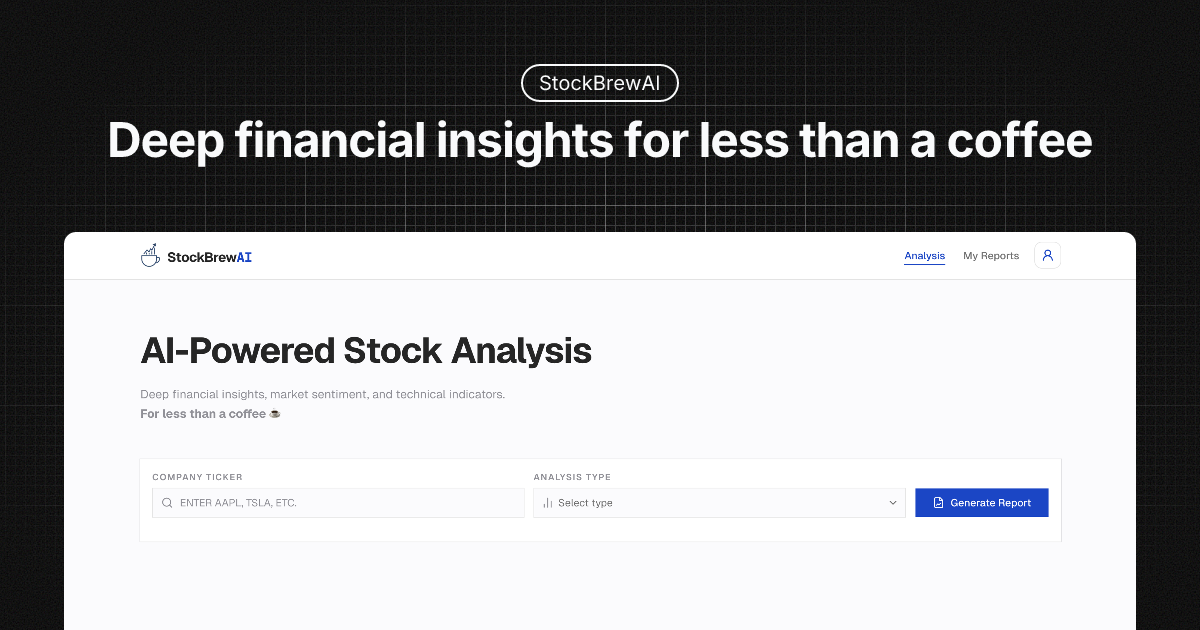
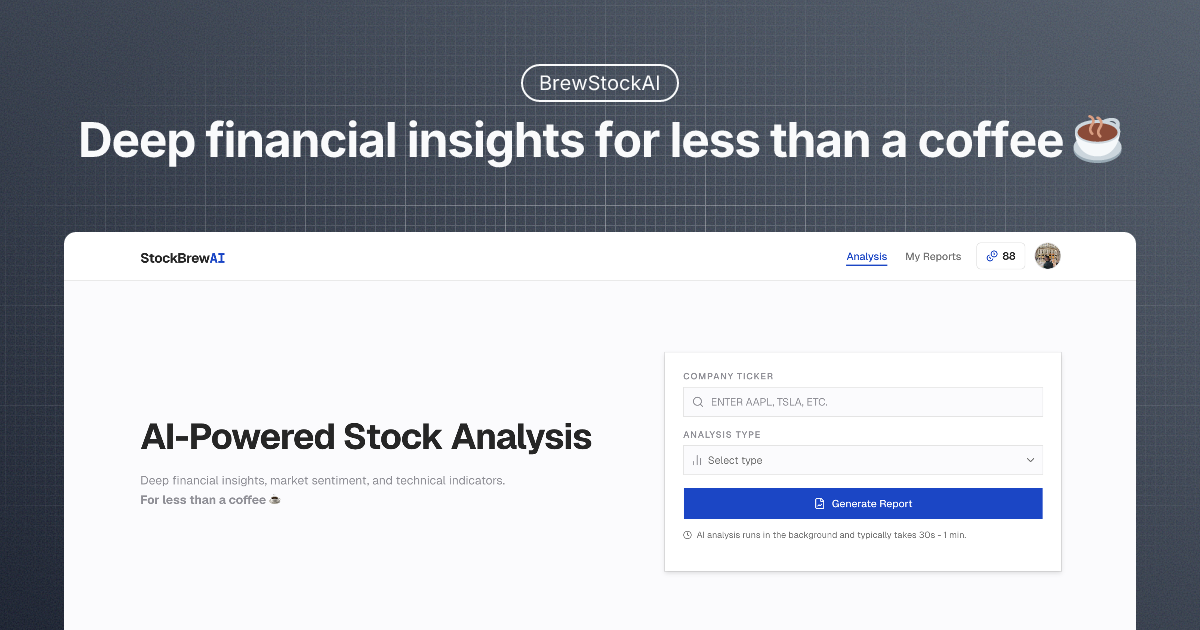
feat: metadata

diff --git a/src/app/analysis/[ticker]/page.tsx b/src/app/analysis/[ticker]/page.tsx
@@ -4,6 +4,8 @@ import { AnalysisFormCard } from '@/features/analysis/analysis-form-card'
 import { getCachedSession } from '@/services/supabase/get-cached-session'
 import { TICKER_PAGES, TICKER_PAGE_MAP } from '@/lib/ticker-pages'
 import { HomeLayout } from '@/components/home-layout'
+import { BreadcrumbSchema, FAQSchema, FinancialProductSchema } from '@/components/structured-data'
+import { ClientEnv } from '@/env/client'
 
 type Props = PageProps<'/analysis/[ticker]'>
 
@@ -16,12 +18,18 @@ export async function generateMetadata({ params }: Props): Promise<Metadata> {
     const page = TICKER_PAGE_MAP.get(ticker)
     if (!page) return {}
 
+    const pageUrl = `${ClientEnv.NEXT_PUBLIC_WEBSITE_URL}/analysis/${page.slug}`
+
     return {
         title: `${page.name} (${page.ticker}) Stock Analysis`,
         description: `AI-powered stock analysis for ${page.name} (${page.ticker}). Get institutional-grade financial insights, market sentiment, and technical indicators for less than a coffee.`,
+        alternates: {
+            canonical: pageUrl,
+        },
         openGraph: {
             title: `${page.name} (${page.ticker}) Stock Analysis | StockBrewAI`,
             description: `AI-powered stock analysis for ${page.name} (${page.ticker}). Financial metrics, sentiment analysis, and technical indicators.`,
+            url: pageUrl,
         },
     }
 }
@@ -34,9 +42,47 @@ export default async function TickerPage({ params }: Props) {
 
     const user = await getCachedSession()
 
+    const siteUrl = ClientEnv.NEXT_PUBLIC_WEBSITE_URL
+    const pageUrl = `${siteUrl}/analysis/${page.slug}`
+
     return (
-        <HomeLayout companyName={`${page.name} (${page.ticker})`}>
-            <AnalysisFormCard isAuthenticated={!!user} defaultTicker={page.ticker} />
-        </HomeLayout>
+        <>
+            <BreadcrumbSchema
+                items={[
+                    { name: 'Home', url: `${siteUrl}/` },
+                    { name: 'Analysis', url: `${siteUrl}/analysis` },
+                    { name: `${page.name} (${page.ticker})`, url: pageUrl },
+                ]}
+            />
+            <FAQSchema
+                questions={[
+                    {
+                        question: `What is ${page.name} (${page.ticker})?`,
+                        answer: page.description,
+                    },
+                    {
+                        question: `What sector does ${page.name} belong to?`,
+                        answer: `${page.name} (${page.ticker}) operates in the ${page.sector} sector.`,
+                    },
+                    {
+                        question: `What does the AI stock analysis for ${page.name} cover?`,
+                        answer: `The AI analysis for ${page.name} (${page.ticker}) covers fundamental financial metrics, market sentiment scoring, technical indicators, moat analysis, risk assessment, and growth potential — institutional-grade insights delivered in seconds.`,
+                    },
+                    {
+                        question: `How can I get an AI analysis for ${page.name} stock?`,
+                        answer: `Enter the ${page.ticker} ticker on StockBrewAI and run the analysis. You get a full report covering financials, sentiment, and technicals for less than the price of a coffee.`,
+                    },
+                ]}
+            />
+            <FinancialProductSchema
+                ticker={page.ticker}
+                name={page.name}
+                description={page.description}
+                url={pageUrl}
+            />
+            <HomeLayout companyName={`${page.name} (${page.ticker})`}>
+                <AnalysisFormCard isAuthenticated={!!user} defaultTicker={page.ticker} />
+            </HomeLayout>
+        </>
     )
 }

diff --git a/src/components/structured-data/index.tsx b/src/components/structured-data/index.tsx
@@ -66,8 +66,63 @@ export function WebApplicationSchema() {
     )
 }
 
-// oxlint-disable-next-line no-unused-vars - to be used in the future
-function BreadcrumbSchema({ items }: Readonly<{ items: Array<{ name: string; url: string }> }>) {
+export function FAQSchema({
+    questions,
+}: Readonly<{ questions: Array<{ question: string; answer: string }> }>) {
+    const faqSchema = {
+        '@context': 'https://schema.org',
+        '@type': 'FAQPage',
+        mainEntity: questions.map(({ question, answer }) => ({
+            '@type': 'Question',
+            name: question,
+            acceptedAnswer: {
+                '@type': 'Answer',
+                text: answer,
+            },
+        })),
+    }
+
+    return (
+        <script
+            id="faq-schema"
+            type="application/ld+json"
+            dangerouslySetInnerHTML={{ __html: JSON.stringify(faqSchema) }}
+        />
+    )
+}
+
+export function FinancialProductSchema({
+    ticker,
+    name,
+    description,
+    url,
+}: Readonly<{ ticker: string; name: string; description: string; url: string }>) {
+    const schema = {
+        '@context': 'https://schema.org',
+        '@type': 'FinancialProduct',
+        name: `${name} (${ticker}) Stock`,
+        description,
+        url,
+        provider: {
+            '@type': 'Organization',
+            name: 'StockBrewAI',
+            url: WEBSITE_URL,
+        },
+        category: 'Stock Analysis',
+    }
+
+    return (
+        <script
+            id="financial-product-schema"
+            type="application/ld+json"
+            dangerouslySetInnerHTML={{ __html: JSON.stringify(schema) }}
+        />
+    )
+}
+
+export function BreadcrumbSchema({
+    items,
+}: Readonly<{ items: Array<{ name: string; url: string }> }>) {
     const breadcrumbSchema = {
         '@context': 'https://schema.org',
         '@type': 'BreadcrumbList',

diff --git a/AGENTS.md b/AGENTS.md
@@ -8,7 +8,7 @@ Before substantial work:
 - Skill guidance: if one local skill clearly matches the task, run `npx @tanstack/intent@latest load <package>#<skill>` and follow the returned `SKILL.md`.
 - Monorepos: when working across packages, run the skill check from the workspace root and prefer the local skill for the package being changed.
 - Multiple matches: prefer the most specific local skill for the package or concern you are changing; load additional skills only when the task spans multiple packages or concerns.
-    <!-- intent-skills:end -->
+      <!-- intent-skills:end -->
 
 <!-- BEGIN:nextjs-agent-rules -->
 
